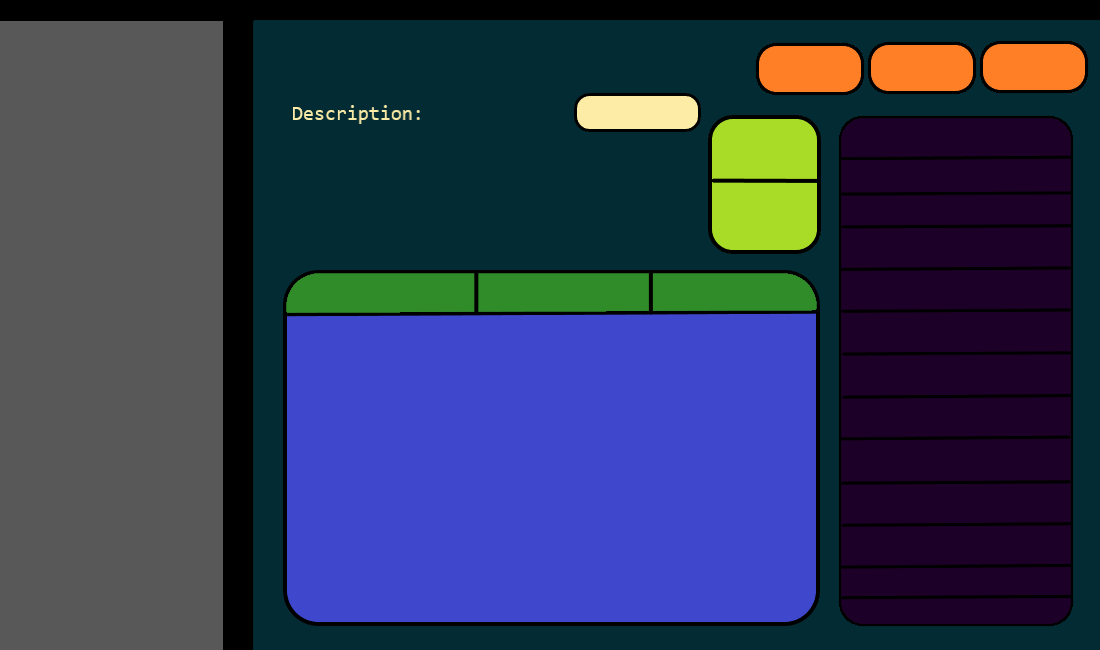
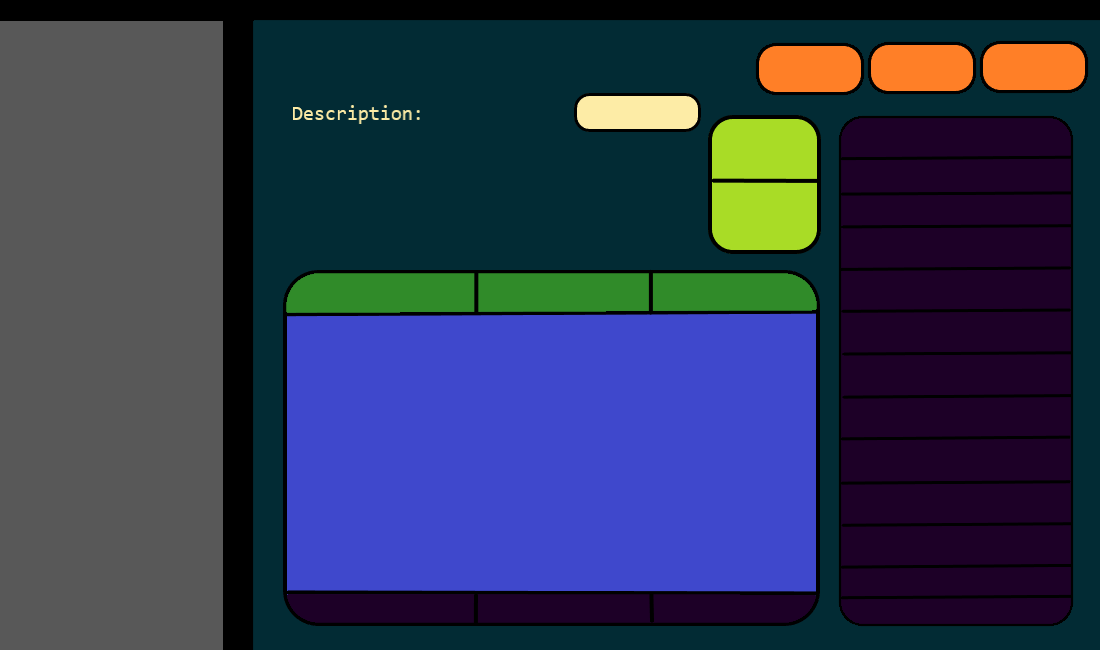
Added ability to read toDoList and Changelog from Json
Added ability to read toDoList and Changelog from Json

Changed region(s): [[0.2473, 0.8923, 0.7418, 0.9846]]

diff --git a/src/ProjectManager/manager.cpp b/src/ProjectManager/manager.cpp
@@ -38,18 +38,26 @@ void Manager::on_quitButton_clicked()
     QApplication::quit();
 }
 
-void Manager::on_projectsList_itemClicked(QListWidgetItem *item)
-{
+QJsonObject Manager::retriveJSONinfo(){
     //retreiving information from JSON file
     QString allJSONinfo;
     QString basePath = "C:\\Users\\satwi\\Desktop\\Projects\\Project Manager\\Projects\\.info\\";
     QFile file;
-    file.setFileName(basePath+item->text()+".json");
+    file.setFileName(basePath+currentProject->text()+".json");
     file.open(QIODevice::ReadOnly | QIODevice::Text);
     allJSONinfo = file.readAll();
     file.close();
     QJsonDocument document = QJsonDocument::fromJson(allJSONinfo.toUtf8());
     QJsonObject obj = document.object();
+    return obj;
+}
+
+void Manager::on_projectsList_itemClicked(QListWidgetItem *item)
+{
+    //setting current project
+    currentProject = item;
+
+    QJsonObject obj = retriveJSONinfo();
 
     ui->projectName->setText(obj.value(QString("Name")).toString()); //setting project name
     ui->projectDescription->setText(obj.value(QString("Description")).toString()); //setting project description
@@ -58,6 +66,46 @@ void Manager::on_projectsList_itemClicked(QListWidgetItem *item)
     ui->Tag2->setText(obj.value(QString("Tags"))[1].toString()); //setting tag 2
     ui->Tag3->setText(obj.value(QString("Tags"))[2].toString()); //setting tag 3
 
+    QListWidget* toDolist = ui->List;
+    toDolist->clear();
+    QJsonArray toDoItems = obj.value(QString("To do list")).toArray();
+    foreach(QJsonValue toDoItem, toDoItems){
+        new QListWidgetItem(toDoItem.toString(), toDolist);
+    }
+}
 
+
+
+void Manager::on_toDoList_clicked()
+{
+    currentState = toDo;
+
+    //change ui->List to whatever is present in the JSON file
+    QJsonObject obj = retriveJSONinfo();
+
+    //adding toDoList items in the list
+    QListWidget* toDolist = ui->List;
+    toDolist->clear();
+    QJsonArray toDoItems = obj.value(QString("To do list")).toArray();
+    foreach(QJsonValue toDoItem, toDoItems){
+        new QListWidgetItem(toDoItem.toString(), toDolist);
+    }
+}
+
+
+void Manager::on_changelog_clicked()
+{
+    currentState = changelog;
+
+    //change ui->List to whatever is present in the JSON file
+    QJsonObject obj = retriveJSONinfo();
+
+    //adding toDoList items in the list
+    QListWidget* changelogList = ui->List;
+    changelogList->clear();
+    QJsonArray changelogItems = obj.value(QString("Changelog")).toArray();
+    foreach(QJsonValue toDoItem, changelogItems){
+        new QListWidgetItem(toDoItem.toString(), changelogList);
+    }
 }
 

diff --git a/src/ProjectManager/manager.h b/src/ProjectManager/manager.h
@@ -6,6 +6,9 @@
 #include <QDir>
 #include <QJsonDocument>
 #include <QJsonObject>
+#include <QJsonArray>
+
+enum state{toDo, changelog, screenshot};
 
 QT_BEGIN_NAMESPACE
 namespace Ui { class Manager; }
@@ -23,8 +26,16 @@ private slots:
     void on_quitButton_clicked();
     void on_projectsList_itemClicked(QListWidgetItem *item);
 
+    void on_toDoList_clicked();
+
+    void on_changelog_clicked();
+
 private:
     Ui::Manager *ui;
     QDir directory;
+    state currentState = toDo;
+    QListWidgetItem* currentProject;
+
+    QJsonObject retriveJSONinfo();
 };
 #endif // MANAGER_H
